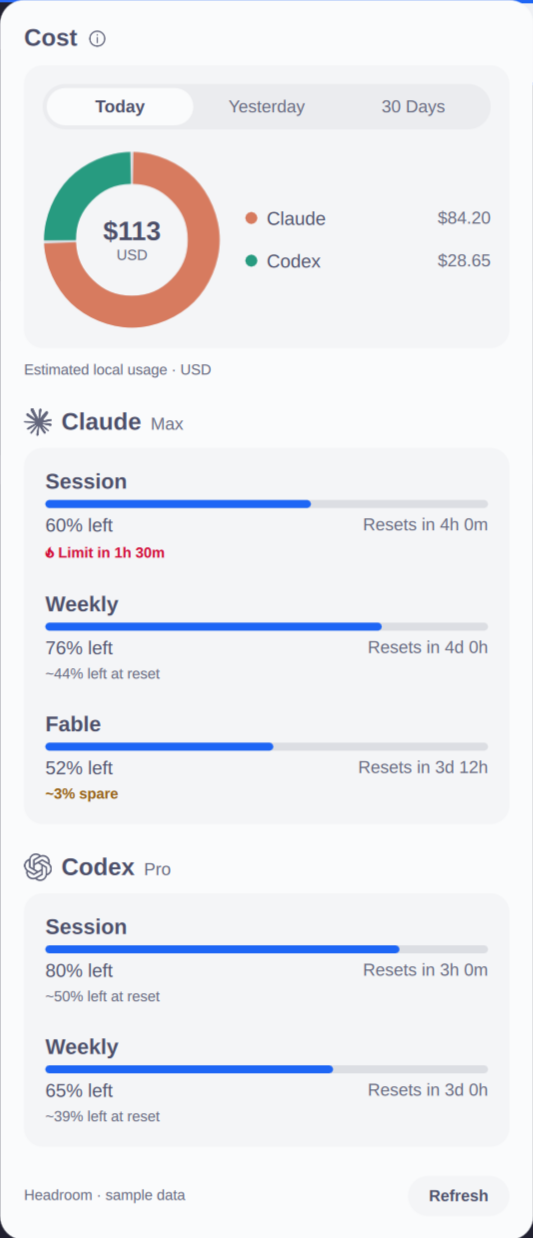
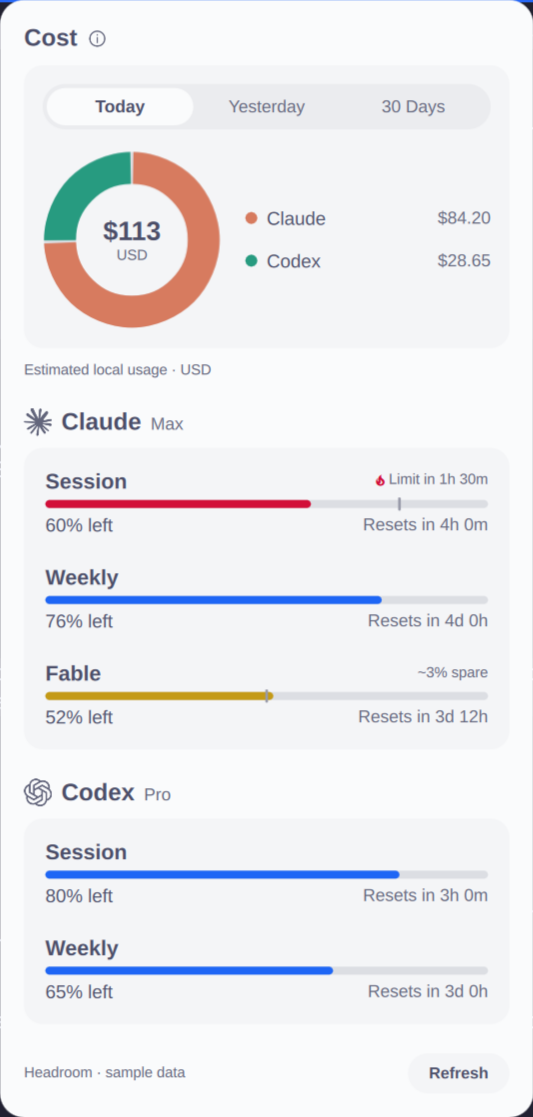
Document conditional quota warnings and refresh previews

diff --git a/DESIGN.md b/DESIGN.md
@@ -23,7 +23,7 @@ The native shell supplies theme colors, scaling, and panel behavior. `Panel.qml`
 
 - Rounded outer surface with quiet inset groups.
 - Strong headings and amounts, subdued supporting text.
-- Provider color confined to the cost split; shared theme accent for allowance.
+- Provider color confined to the cost split; shared theme accent for healthy allowance, yellow and red for warnings.
 - Explicit text for unavailable readings, resets, and forecast warnings.
 
 ## Colors
@@ -32,7 +32,7 @@ The palette follows the active Omarchy theme, with two fixed colors for the cost
 
 ### Primary
 
-Quota fills use `Color.accent`. The accent is shared by both providers and does not change with forecast severity.
+Healthy quota fills use `Color.accent`, shared by both providers. A tight projected buffer uses yellow; a limit warning uses the urgency color. `Pace.severity()` owns the state and `meterColor()` maps it to these roles.
 
 ### Secondary
 
@@ -42,11 +42,11 @@ The warm coral `cost-claude` and green teal `cost-codex` identify providers in t
 
 Popup text uses `Color.popups.text`. The popup surface uses `Color.popups.background`, mixed 68% toward white when its HSL lightness exceeds 0.5. Inset groups mix that surface 3.5% toward the foreground; meter tracks mix the group 14% toward the foreground. The period-selector bed uses a quieter 5.5% group-to-foreground mix.
 
-Secondary text begins with a foreground-to-surface mix. `legible()` adjusts it toward the foreground against the selector bed; caution and urgency use the same adjustment against the group. The function seeks a calculated contrast ratio of at least 4.65, with the popup foreground as its fallback. Theme-derived colors remain expressions, not captured light/dark hex palettes.
+Secondary text begins with a foreground-to-surface mix. `legible()` adjusts it toward the foreground against the selector bed; urgency uses the same adjustment against the group. The function seeks a calculated contrast ratio of at least 4.65, with the popup foreground as its fallback. Theme-derived colors remain expressions, not captured light/dark hex palettes.
 
-Caution starts from a theme-dependent amber; urgency starts from `Color.urgent`. The bar uses `WidgetButton.foreground`, including the shell's wallpaper-aware contrast, and the bar's urgent color for flame warnings.
+Caution is a meter color: `#c49a16` on a light surface and `#edc35b` on a dark surface. Urgency starts from `Color.urgent`. Warning text stays secondary; only the flame takes the urgency color. The bar uses `WidgetButton.foreground`, including the shell's wallpaper-aware contrast, and the bar's urgent color for flame warnings.
 
-**The Separate Roles Rule.** Cost colors identify providers, the accent measures remaining allowance, and warning colors accompany forecast text.
+**The Separate Roles Rule.** Cost colors identify providers. Quota color communicates capacity state; the fill length always measures remaining allowance. Warning labels use secondary text.
 
 ## Typography
 
@@ -59,9 +59,9 @@ Panel labels and bar percentages use Qt's `sans-serif` family. Normal and `Font.
 | Quota title | `Style.space(16)` | DemiBold; window names |
 | Body | `Style.space(14)` | Normal; remaining allowance and legend labels |
 | Compact label | `Style.space(13)` | Periods, plans, resets, and exact costs; selected period is DemiBold |
-| Supporting text | `Style.space(11)`–`Style.space(12)` | Units, status, forecasts, and Refresh; warnings use DemiBold |
+| Supporting text | `Style.space(11)`–`Style.space(12)` | Units, status, forecasts, and Refresh; only Refresh uses DemiBold |
 
-Bar percentages are DemiBold at `Style.space(14)`, right-aligned in a width measured from `100%`. The ring total and legend amounts can shrink to fit. Plan names and quota titles elide; status, reset, and forecast text can wrap.
+Bar percentages are DemiBold at `Style.space(14)`, right-aligned in a width measured from `100%`. The ring total and legend amounts can shrink to fit. Plan names and quota titles elide; status and reset text can wrap. Forecast warnings stay on the title line, with the title yielding space to the warning.
 
 ## Layout
 
@@ -69,7 +69,7 @@ The popup is one column. `KeyboardPanel` requests content width `Style.space(400
 
 Major sections are separated by `Style.space(22)`. Cost content has `Style.space(14)` insets; provider groups have `Style.space(16)` insets and `Style.space(22)` between quota rows. These are component measurements, not a new global spacing scale.
 
-The cost group places the three-period selector above a ring and an aligned provider legend. Each provider heading sits outside its inset quota group. Inside a quota row, the order is title, meter, remaining percentage on the left with reset on the right, then forecast text. The footer pairs update status with Refresh.
+The cost group places the three-period selector above a ring and an aligned provider legend. Each provider heading sits outside its inset quota group. Inside a quota row, the order is title with any warning right-aligned alongside it, meter, then remaining percentage on the left with reset on the right. There is no forecast row beneath those figures. The footer pairs update status with Refresh.
 
 The bar shows two provider summaries horizontally, separated by a fine rule. On a vertical bar they stack and the separator disappears. Both providers remain visible in either orientation.
 
@@ -81,7 +81,7 @@ Positioning, focus, dismissal, and panel transitions belong to the native shell.
 
 ## Shapes
 
-The outer popup has a `Style.space(18)` corner radius. Cost and provider groups use `Style.space(14)`. Period controls, Refresh, and meter ends are fully rounded using half their height. Meters are thin (`Style.space(6)`) and show a continuous fill without a pace marker.
+The outer popup has a `Style.space(18)` corner radius. Cost and provider groups use `Style.space(14)`. Period controls, Refresh, and meter ends are fully rounded using half their height. Meters are thin (`Style.space(6)`). Caution and urgent forecasts add a `Style.space(2)` even-pace marker, extending `Style.space(2)` above and below the track. It uses 55% foreground mixed into the group and sits at the remaining fraction of the time window. Healthy, exhausted, stale and unavailable readings have no marker.
 
 The cost ring is drawn in a `Style.space(134)` square with a `Style.space(24)` stroke. Small gaps separate nonzero provider segments. Local SVG assets supply the monochrome provider marks and information icon through `TintedIcon`.
 
@@ -101,9 +101,11 @@ The ring total is rounded to whole dollars; the adjacent provider amounts show t
 
 ### Provider quota group
 
-A monochrome provider mark, heading, and subdued plan label introduce each group. Session, Weekly, and reported model-specific windows appear together. The accent meter represents allowance remaining, followed by a textual percentage and reset countdown.
+A monochrome provider mark, heading, and subdued plan label introduce each group. Session, Weekly, and reported model-specific windows appear together. The meter represents allowance remaining, followed by a textual percentage and reset countdown.
 
-Calm forecasts use secondary text. Low-buffer forecasts use amber and DemiBold; urgent or exhausted forecasts use urgency color, DemiBold, and a flame alongside text. Forecast tooltips explain the average-use basis. Missing or expired percentages use an em dash and an empty meter. Stale unexpired readings retain their numbers with reduced fill opacity (0.4), an explicit status, and no forecast.
+Healthy forecasts with at least 10% projected spare have no visible note or marker. Hovering the meter reveals the projection. A smaller buffer that rounds to at least 1% shows a yellow meter and a normal-weight secondary `~N% spare` note beside the title. A buffer that rounds to zero, or projected exhaustion before reset, shows a red meter and flame; a meaningful exhaustion estimate accompanies the flame. A displayed zero remaining shows `Limit reached`. Warning text stays secondary and normal weight. Forecast tooltips explain the average-use basis.
+
+Very early readings below 5% usage suppress extrapolated alarms. Without a usable projection, fresh readings use absolute rounded-usage bands: yellow at 80% used and red at 90%, without a pacing note or marker. Missing or expired percentages use an em dash and an empty meter. Stale unexpired readings retain their numbers with reduced fill opacity (0.4), an explicit status, and no forecast.
 
 ### Native panel controls
 
@@ -122,6 +124,6 @@ Refresh is a compact pill using the group color at rest and track color on hover
 ### Don't:
 
 - **Don't** hardcode the captured blue accent or a captured light/dark palette.
-- **Don't** use cost colors to tint provider quota groups or replace forecast text with color alone.
+- **Don't** use cost colors to tint provider quota groups or add permanent healthy forecast text.
 - **Don't** add provider tabs, Extra Usage, or Usage Trend sections to this widget.
 - **Don't** put every quota row in a separate card or add decorative animation.

diff --git a/.impeccable/surfaces/panel-qml.md b/.impeccable/surfaces/panel-qml.md
@@ -12,16 +12,16 @@ Operate
 See weekly capacity at a glance; open once for costs and the runway behind it.
 
 ## OWN-WORLD
-A compact desktop usage instrument: monochrome provider marks, soft grouped surfaces, clear sans-serif labels, thin blue meters.
+A compact desktop usage instrument: monochrome provider marks, soft grouped surfaces, clear sans-serif labels, thin theme-accent meters with yellow or red warning states.
 
 ## STORY
-Weekly summaries in the bar. Cost period selector and provider split first. Claude and Codex limits below, each with remaining allowance, reset and pace estimate.
+Weekly summaries in the bar. Cost period selector and provider split first. Claude and Codex limits below, each with remaining allowance and reset. Pacing appears beside the title only when capacity needs attention; healthy projections stay on hover.
 
 ## FIRST VIEWPORT
 The Cost heading, Today/Yesterday/30 Days control, and cost ring introduce the panel. Both providers fit on a normal desktop. Switching periods updates the ring and exact amounts together.
 
 ## FORM
-Rounded popup and quiet inset groups. Large total, aligned currency legend, quota title above meter, remaining percentage below left and reset below right. Preserve native dismissal and theme behavior.
+Rounded popup and quiet inset groups. Large total, aligned currency legend, quota title and conditional warning above meter, remaining percentage below left and reset below right. Preserve native dismissal and theme behavior.
 
 ## FINISH
 Verify light/dark, missing and stale data, period selection, keyboard controls, synthetic previews, and live collection without publishing private usage.

diff --git a/README.md b/README.md
@@ -10,7 +10,8 @@ Claude Code and Codex weekly percentages, local cost estimates, reset times, and
 - Session, weekly, and reported model-specific quota windows in the panel.
 - Estimated local usage value in USD for Today, Yesterday, and 30 Days, with a provider cost split.
 - Reset countdowns beneath thin quota meters.
-- Projected capacity left at reset, an amber spare-capacity warning, or a flame with estimated time to exhaustion.
+- Quiet quota rows when capacity is healthy. A yellow meter and spare-capacity note appear when the projected buffer is below 10%; a red meter and flame warn of a limit, with an exhaustion estimate when available.
+- Hover a quota meter for the projected capacity at reset. Warning notes sit beside the quota title.
 - Last-known percentages with a warning when a refresh cannot be verified. Unreliable data never generates a forecast.
 
 Forecasts use average consumption since the quota window began. They are estimates of allowance consumption, not additional charges or a measurement of the last few minutes' activity.

diff --git a/PRODUCT.md b/PRODUCT.md
@@ -13,7 +13,7 @@ People using Claude Code and Codex together need to see their weekly allowance w
 - Both providers stay visible. The bar shows weekly percentages remaining.
 - The panel shows Session, Weekly, and reported model-specific limits together.
 - Costs have Today, Yesterday, and 30 Days views. They represent estimated API-equivalent USD value from this machine's local history, not subscription charges.
-- Preserve buffer and exhaustion forecasts, label stale readings, and distinguish missing data from zero.
+- Keep healthy buffer forecasts on hover. Show spare-capacity or flame warnings beside quota titles only when capacity needs attention. Label stale readings and distinguish missing data from zero.
 - No token charts, usage trends, Extra Usage section, provider tabs, or marketplace release in this proof of concept.
 - Native collectors own provider authentication and quota requests. Cost reading is local and independent.
 
